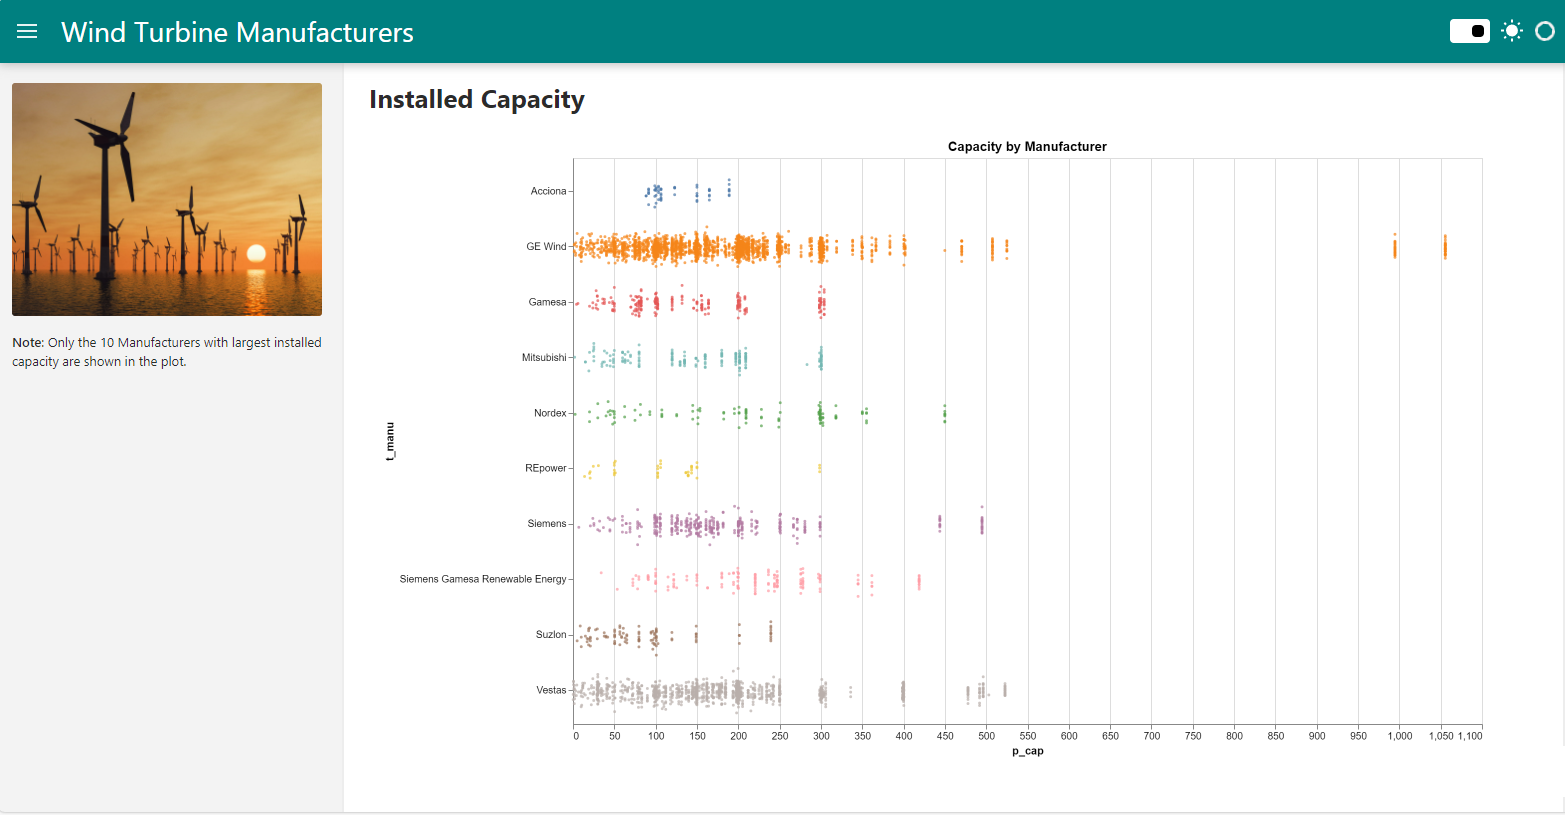
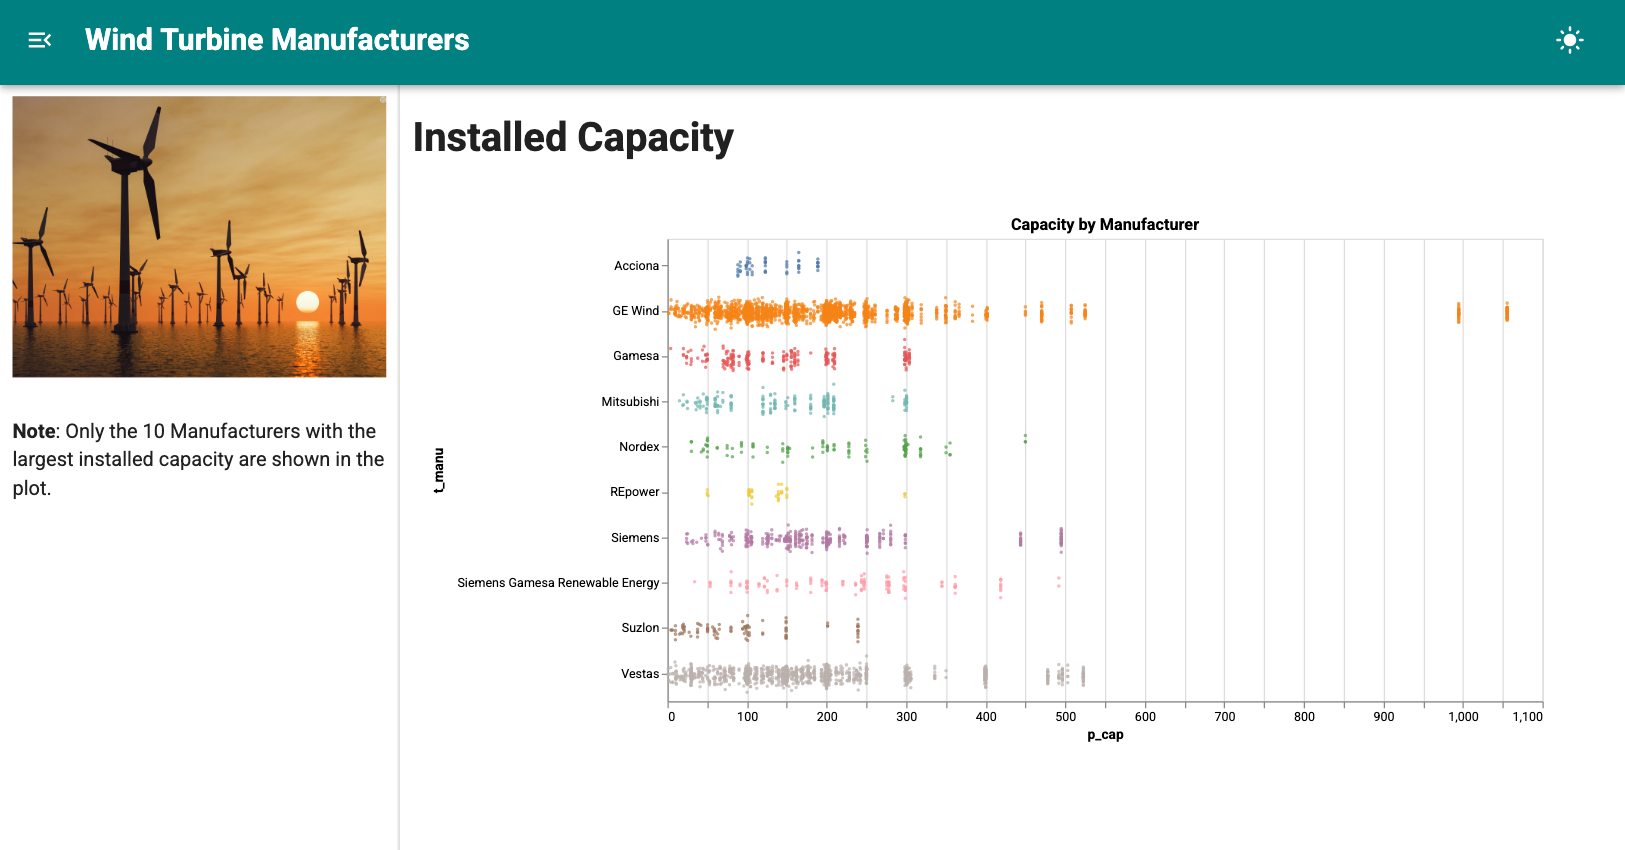
docs: Regenerate tutorial screenshots for panel.ui
The Spacer solution of the align exercise overflowed its 400 pixel
Column, since pn.ui.Card adds a 10 pixel margin.

Assisted-by: Claude Code:claude-opus-5-5

diff --git a/doc/tutorials/basic/align.md b/doc/tutorials/basic/align.md
@@ -147,9 +147,9 @@ image = pn.ui.PNG("https://assets.holoviz.org/panel/tutorials/wind_turbine.png",
 
 card1 = pn.ui.Card(image, title='Turbine 1', height=150, width=200, align="center")
 card2 = pn.ui.Card(image, title='Turbine 2', height=150, width=200, align="center")
-spacer1 = pn.ui.Spacer(height=33)
-spacer2 = pn.ui.Spacer(height=33)
-spacer3 = pn.ui.Spacer(height=33)
+spacer1 = pn.ui.Spacer(height=20)
+spacer2 = pn.ui.Spacer(height=20)
+spacer3 = pn.ui.Spacer(height=20)
 
 pn.ui.Column(
     spacer1, card1, spacer2, card2, spacer3,
